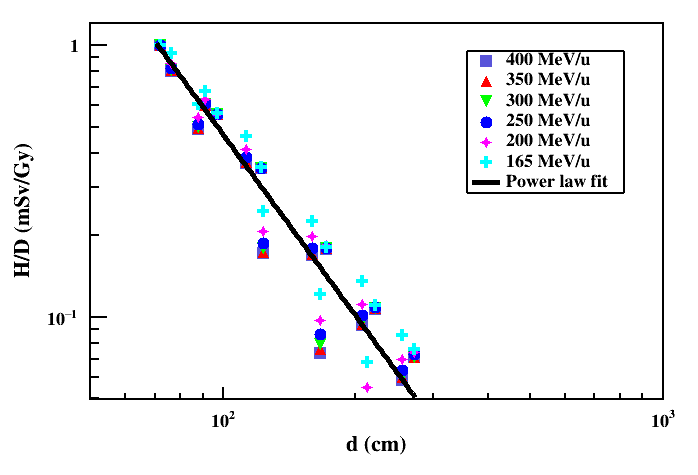
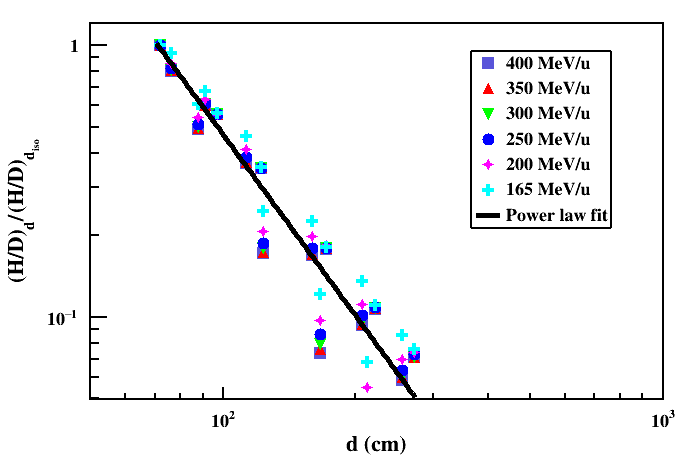
change unit

Changed region(s): [[0.6619, 0.0884, 0.9026, 0.4126], [0.0, 0.2947, 0.0602, 0.5895], [0.6619, 0.4421, 0.8725, 0.5011]]

diff --git a/ene_iso/result/d_HperD1.C b/ene_iso/result/d_HperD1.C
@@ -90,7 +90,7 @@ void d_HperD1()
     //mgp->GetXaxis()->SetRangeUser(10,1000);
     mgp->GetXaxis()->SetTitle("d (cm)");
     mgp->GetXaxis()->CenterTitle(true);
-    mgp->GetYaxis()->SetTitle("H/D (mSv/Gy)");
+    mgp->GetYaxis()->SetTitle("(H/D)_{d}/^{}(H/D)_{d_{iso}}");
     mgp->GetYaxis()->CenterTitle(true);
     TLegend *leg;
     leg=new TLegend(0.6,0.5,0.8,0.8);

diff --git a/ene_iso/result/d_HperD.C b/ene_iso/result/d_HperD.C
@@ -87,7 +87,7 @@ void d_HperD()
     //mgp->GetXaxis()->SetRangeUser(40,310);
     mgp->GetXaxis()->SetTitle("d (cm)");
     mgp->GetXaxis()->CenterTitle(true);
-    mgp->GetYaxis()->SetTitle("H/D (mSv/Gy)");
+    mgp->GetYaxis()->SetTitle("(H/D)_{d} (mSv/Gy)");
     mgp->GetYaxis()->CenterTitle(true);
     TLegend *leg;
     leg=new TLegend(0.6,0.5,0.8,0.8);
